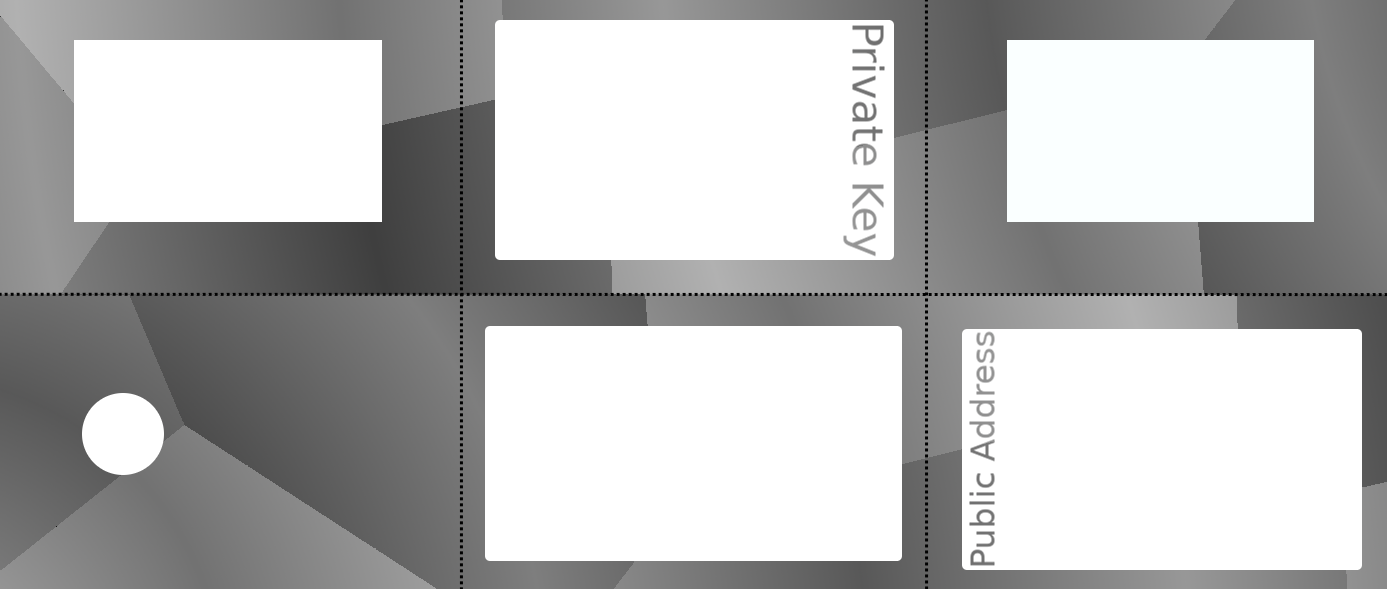
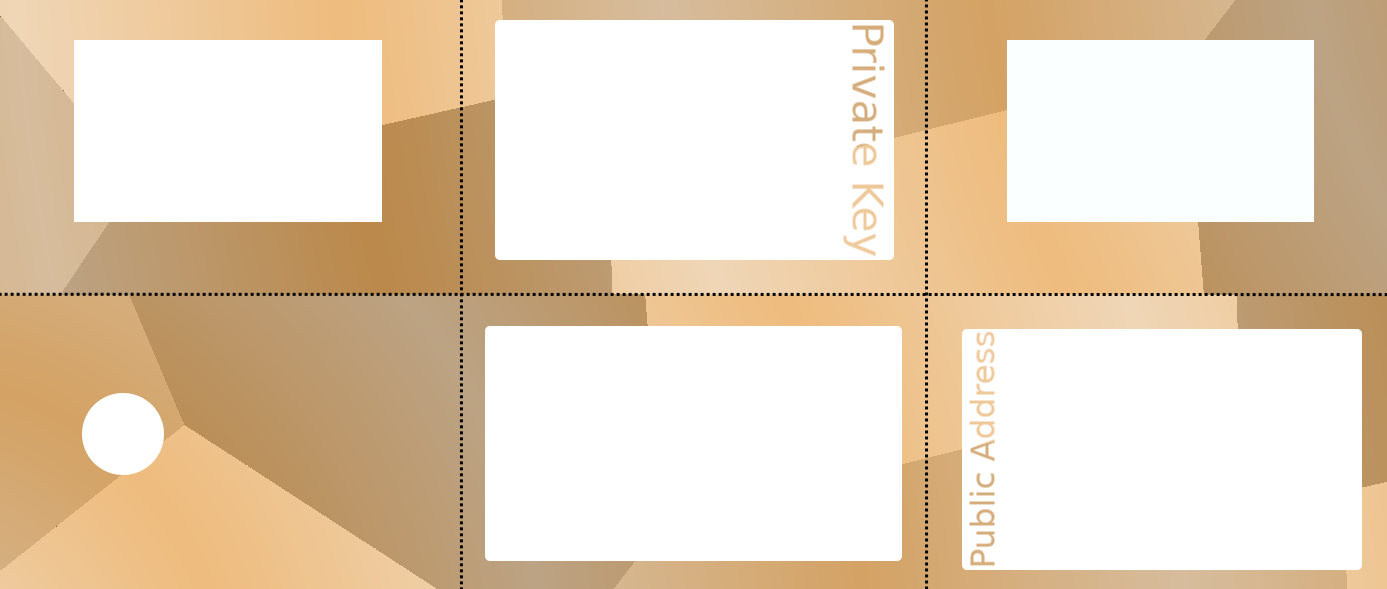
Added coin-specific colors to wallet designs.  - The color schemes still look very bad.  - This should only require some minor changes to colordetect and genwallet.

diff --git a/pyperlib/walletgen.py b/pyperlib/walletgen.py
@@ -1,5 +1,5 @@
 from pyperlib import colordetect, helper
-from PIL import Image
+from PIL import Image, ImageOps
 from pathlib import Path
 
 
@@ -44,6 +44,15 @@ class BaseDesigner:
         detector = colordetect.Detector(img)
         return detector.run()
 
+    def colorize(self, img, colors):
+        """Colorize the image with colors."""
+        img = img.convert("L")
+
+        c1 = colors[0].rgb
+        c2 = colors[1].rgb
+        img = ImageOps.colorize(img, c2, c1)
+        return img.convert("RGBA")
+
     def run_one(self, logo, name):
         """Create a wallet from a logo."""
         raise NotImplementedError("This designer has no run_one function.")
@@ -66,6 +75,8 @@ class SixfoldDesigner(BaseDesigner):
         colors = self.detect_colors(img)
 
         gradient, overlay, design = self.images
+
+        gradient = self.colorize(gradient, colors)
 
         background = Image.blend(gradient, overlay, 0.5)
         design = Image.alpha_composite(background, design)

diff --git a/pyperlib/colordetect.py b/pyperlib/colordetect.py
@@ -15,6 +15,11 @@ class Color:
         self.b = round(b / rnd) * rnd
         self.a = round(a / rnd) * rnd
 
+    @property
+    def rgb(self):
+        """Return the color as an rgb tuple."""
+        return self.r, self.g, self.b
+
     def distance(self, other):
         """Calculate the 'distance' to another color."""
         dr = other.r - self.r
